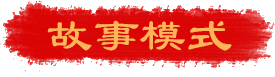
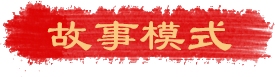
button修改

diff --git a/Hunter/Room/RoomPage.xaml b/Hunter/Room/RoomPage.xaml
@@ -30,7 +30,7 @@
         
         <Grid.RowDefinitions>
             <RowDefinition Height="80"/>
-            <RowDefinition Height="120"/>
+            <RowDefinition Height="100"/>
             <RowDefinition Height="30"/>
             <RowDefinition Height="*"/>
             <RowDefinition Height="2"/>
@@ -95,7 +95,7 @@
                 </Grid>
             </Button>
         </Grid>
-        <Grid Grid.Row="1" Margin="10 0 10 10">
+        <Grid Grid.Row="1" Margin="10 0 10 0">
             <Grid.ColumnDefinitions>
                 <ColumnDefinition Width="*"/>
                 <ColumnDefinition Width="*"/>
@@ -106,7 +106,7 @@
                 </-->
                 <Button Name="StoryMode"  HorizontalAlignment="Stretch"  MaxWidth="300" VerticalAlignment="Stretch"  FontSize="36" Foreground="DarkGoldenrod"  Style="{StaticResource storybutton}" Click="StoryMode_Click">
                 <Button.Background>
-                    <ImageBrush Stretch="UniformToFill" ImageSource="..\Assets/story.png" />
+                    <ImageBrush Stretch="Uniform" ImageSource="..\Assets/story.png"/>
                 </Button.Background>
                 <!--Button.BorderBrush>
                     <LinearGradientBrush EndPoint="1,0.5" StartPoint="0,0.5">
